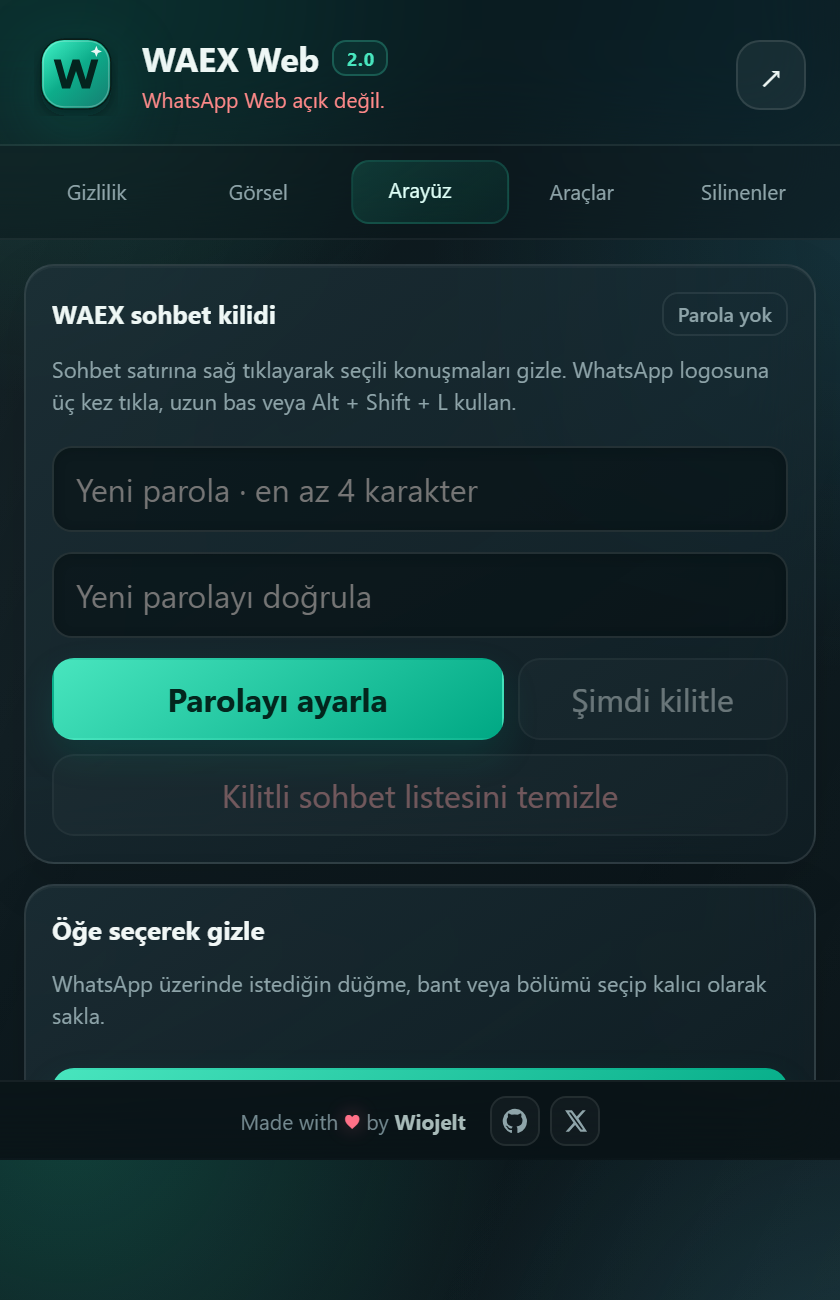
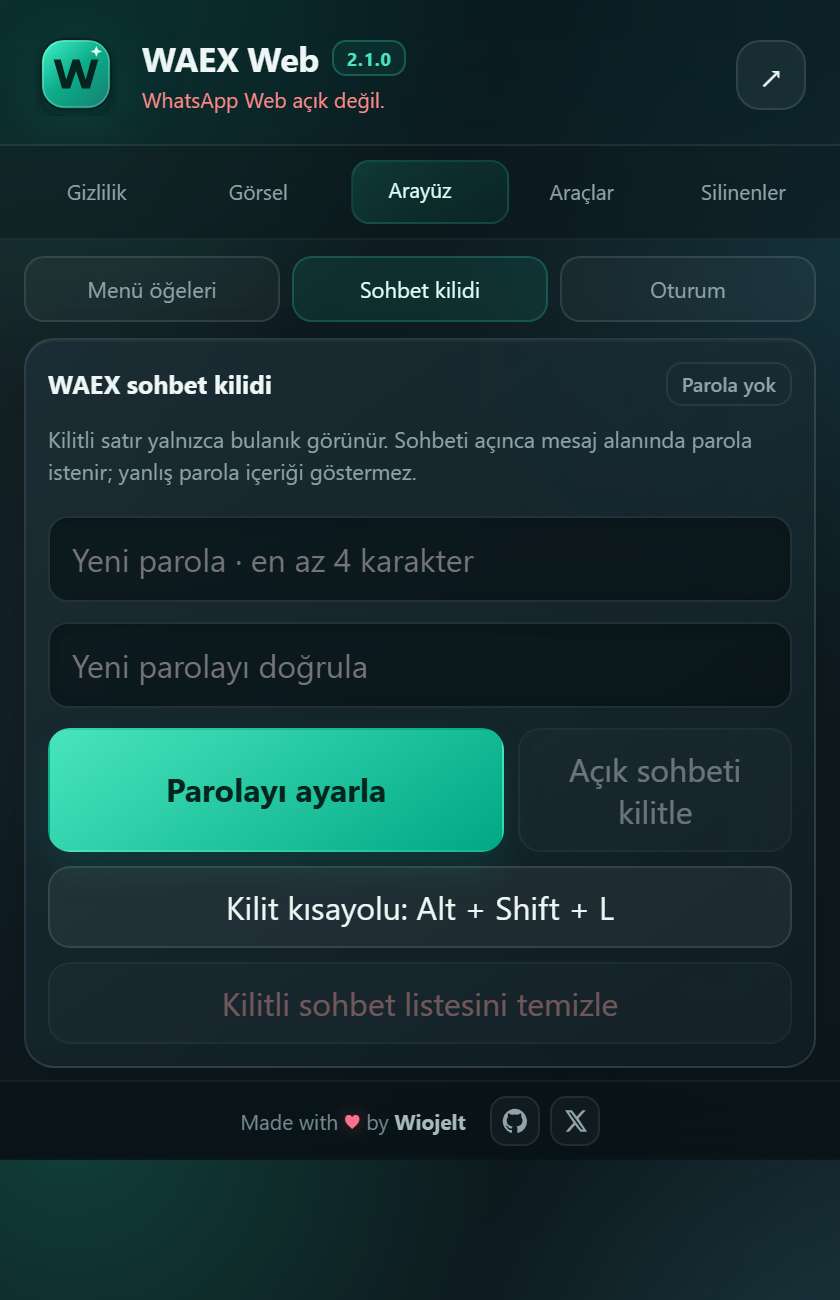
Showcase WAEX 2.1 quick controls

diff --git a/README.md b/README.md
@@ -7,17 +7,21 @@
 
   Yerel gizlilik, seçili sohbet kilidi ve ayrıntılı arayüz kontrolü.
 
-  `Chrome` · `Edge` · `Manifest V3` · `Local-first`
+  `v2.1.0` · `Chrome` · `Edge` · `Manifest V3` · `Local-first`
 </div>
 
 ## Öne çıkanlar
 
 - **Görünmez mod:** Okundu, oynatıldı, yazıyor, kayıt ve durum görüntüleme bilgilerini kontrol et.
-- **Yerel sohbet kilidi:** Kilitli satırı bulanık tut; konuşmayı açınca sohbet ekranındaki parola alanıyla içeriği göster.
-- **Arayüz kontrolü:** Sol menü düğmelerini, Arşivlenenler'i ve Windows indirme bandını ayrı ayrı kaldır.
-- **Arayüz kontrolü:** Windows banner’ı, arşivlenenler ve sol menü düğmeleri için açık/kapatılabilir kontroller.
-- **Panik gizliliği:** Mesaj, isim, profil resmi ve medyayı tek kısayolla bulanıklaştır.
-- **Yerel araçlar:** Anti-revoke, zamanlama, hızlı sohbet, medya indirme ve yerel mesaj düzenleme.
+- **Yerel sohbet kilidi:** Kilitli satırı bulanık tut; geçiş perdesiyle içeriği göstermeden sohbet ekranında parola iste.
+- **WhatsApp içi kontroller:** Sohbet başlığından tek tıkla kilit, panik gizliliği ve Arşivlenenler kontrolü.
+- **Arayüz kontrolü:** Sol menü düğmelerini tıklanabilir alanıyla birlikte, Arşivlenenler'i ve Windows bandını ayrı ayrı kaldır.
+- **Panik gizliliği:** Mesaj, isim, profil resmi ve medyayı panelden atanan kısayolla bulanıklaştır.
+- **Yerel araçlar:** Anti-revoke, zamanlama, medya indirme ve yerel mesaj düzenleme.
+
+<div align="center">
+  <img src="assets/quick-actions.png" alt="WhatsApp sohbet başlığındaki WAEX hızlı kontrolleri" width="100%">
+</div>
 
 <div align="center">
   <img src="assets/popup-interface.png" alt="WAEX Web arayüz kontrolü" width="420">
